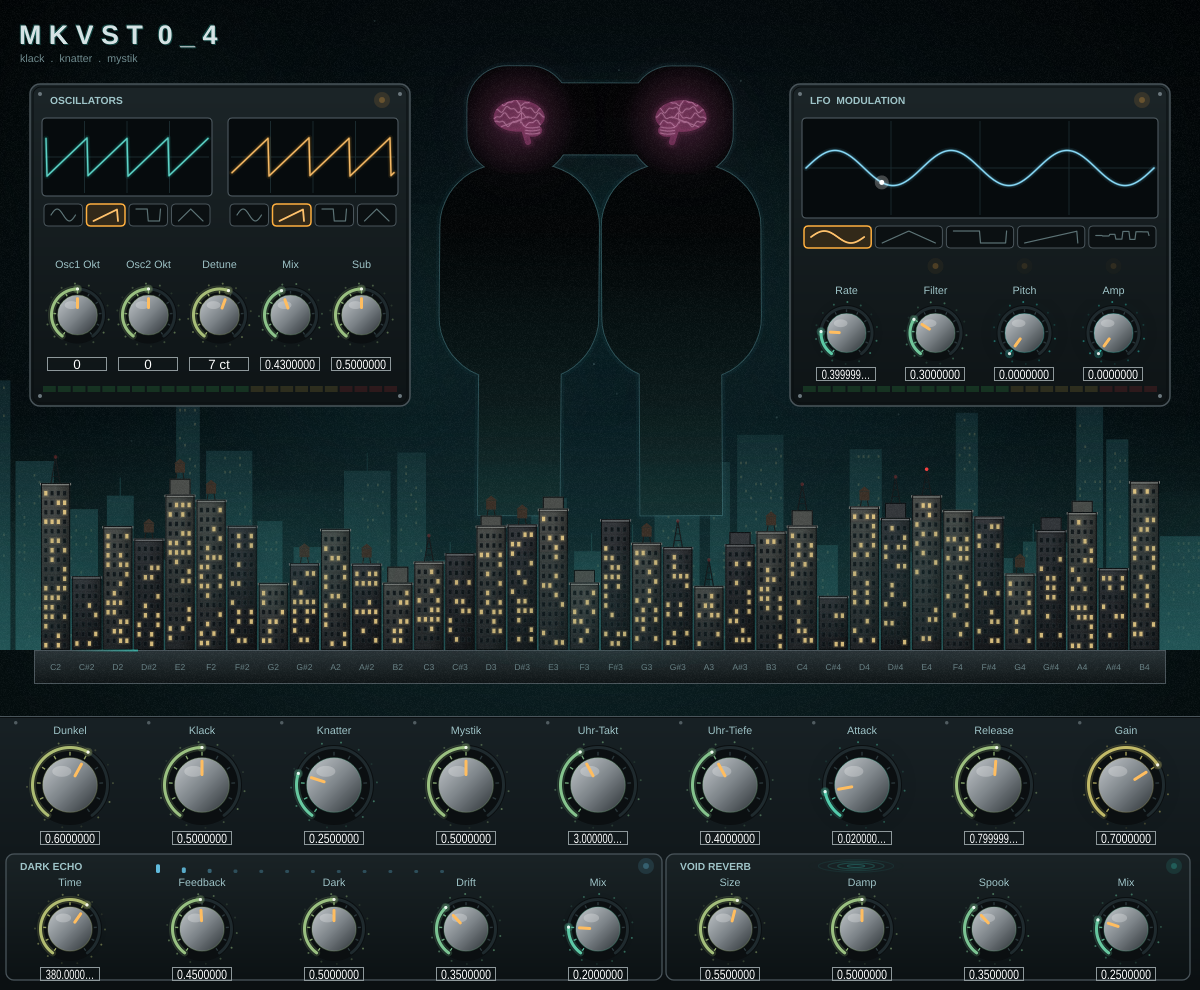
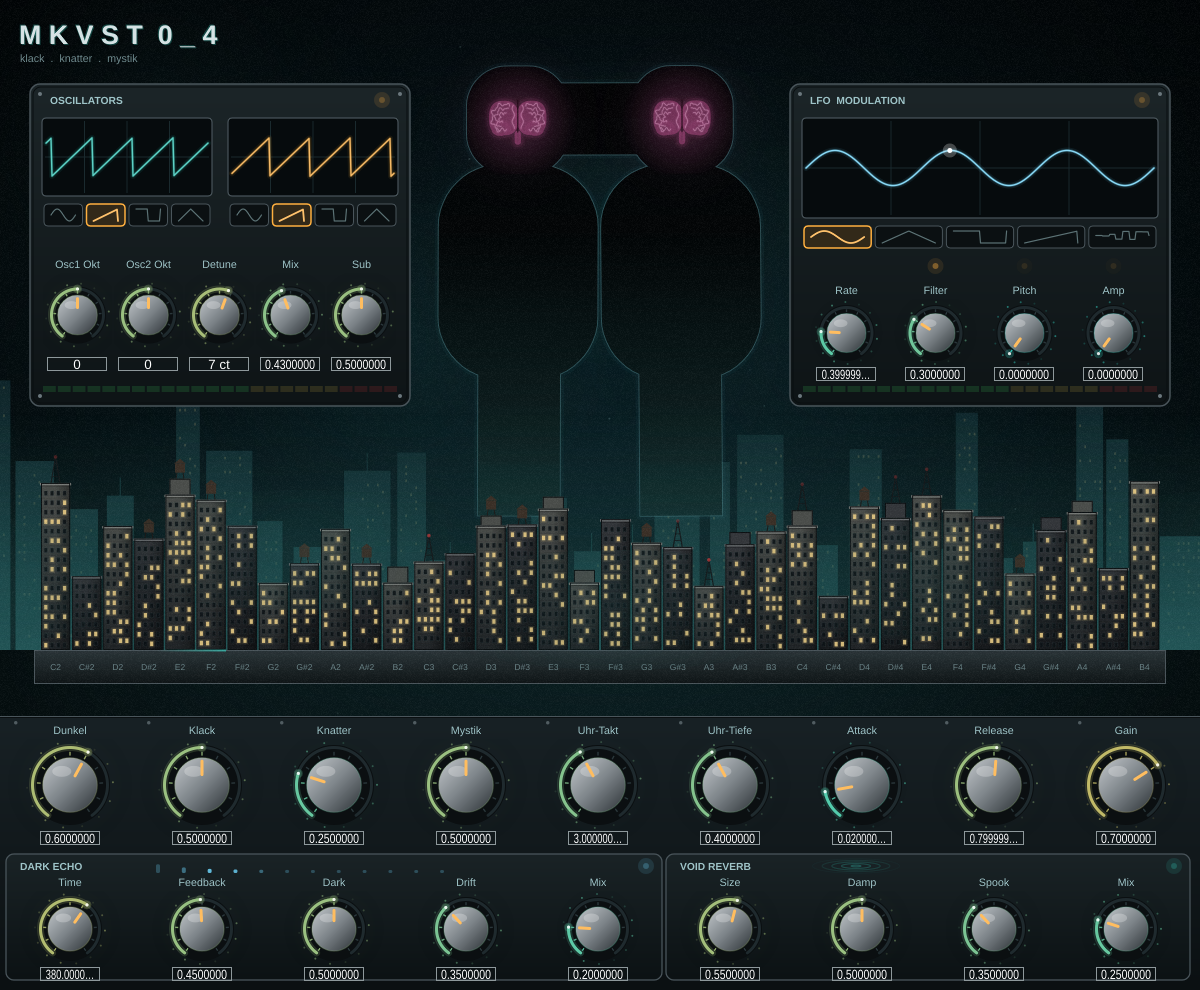
Gehirne in Frontansicht statt im Profil
Zwei Hälften mit Mittelspalt, Schläfenlappen und Hirnstamm, Windungen als wellige Bögen.
Screenshot neu aufgenommen.

Claude-Session: https://claude.ai/code/session_01NFZk9Gjxj1xszL24HG9cdJ

diff --git a/Source/Mkvst04Editor.cpp b/Source/Mkvst04Editor.cpp
@@ -387,48 +387,68 @@ void Mkvst04Editor::buildFigures()
     bodyR.addRoundedRectangle (2.5f, -86.0f, 108.9f, 147.0f, 42.7f);
     bodyR.addRectangle (28.0f, 50.0f, 56.0f, 104.6f);
 
-    // Gehirn im linken Kopf, Stirn nach außen (-x). Großhirn: Ellipse, oben etwas voller als unten,
-    // vorne leicht abgeflacht; Kleinhirn hinten unten, Hirnstamm darunter.
-    //     x(a) = 21 cos a,   y(a) = -2 + (a < pi ? 11 : 14) sin a,   Stirn: x *= 0.92 für cos a < 0
+    // Gehirn im linken Kopf, Frontansicht: zwei Hälften nebeneinander, unten außen die Schläfenlappen,
+    // in der Mitte der Hirnstamm. Jede Hälfte ist eine Superellipse (kantiger als eine Ellipse, damit die
+    // Innenseiten am Mittelspalt flach aneinanderliegen):
+    //     x(a) = ±11 + 11,5 sgn(cos a) |cos a|^(2/n),   y(a) = -2 + 13,5 sgn(sin a) |sin a|^(2/n),   n = 2,6
     const auto c = brainCentreL;
-    juce::Path cerebrum;
-    for (int k = 0; k <= 64; ++k)
+    auto sgnPow = [] (float v) { return std::copysign (std::pow (std::abs (v), 2.0f / 2.6f), v); };
+    for (float side : { -1.0f, 1.0f })
     {
-        const float a = (float) k / 64.0f * twoPi;
-        const float x = 21.0f * std::cos (a) * (std::cos (a) < 0.0f ? 0.92f : 1.0f);
-        const float y = -2.0f + (a < pi ? 11.0f : 14.0f) * std::sin (a);
-        if (k == 0) cerebrum.startNewSubPath (c.x + x, c.y + y);
-        else        cerebrum.lineTo (c.x + x, c.y + y);
-    }
-    cerebrum.closeSubPath();
-    brainShape = cerebrum;
-    brainShape.addEllipse (c.x + 4.0f, c.y + 3.0f, 15.0f, 10.0f);                 // Kleinhirn
-    juce::Path stem;
-    stem.addRoundedRectangle (c.x + 2.0f, c.y + 6.0f, 5.0f, 14.0f, 2.5f);           // Hirnstamm
-    brainShape.addPath (stem, juce::AffineTransform::rotation (-0.3f, c.x + 4.5f, c.y + 6.0f));
-
-    // Windungen: wellige Linien quer durchs Großhirn, dazu Zentralfurche und seitliche Furche
-    //     y_row(x) = y0 + 1.8 sin(0.45 x + 1.7 row) + 1.0 sin(0.95 x + row)
-    for (int row = 0; row < 4; ++row)
-    {
-        const float y0 = -14.0f + (float) row * 5.4f;
-        for (int k = 0; k <= 48; ++k)
+        juce::Path half;
+        for (int k = 0; k < 96; ++k)
         {
-            const float x = -22.0f + (float) k * (44.0f / 48.0f);
-            const float y = y0 + 1.8f * std::sin (0.45f * x + 1.7f * (float) row) + 1.0f * std::sin (0.95f * x + (float) row);
-            if (k == 0) brainFolds.startNewSubPath (c.x + x, c.y + y);
-            else        brainFolds.lineTo (c.x + x, c.y + y);
+            const float a = (float) k / 96.0f * twoPi;
+            const float x = c.x + side * 11.0f + 11.5f * sgnPow (std::cos (a));
+            const float y = c.y - 2.0f + 13.5f * sgnPow (std::sin (a));
+            if (k == 0) half.startNewSubPath (x, y);
+            else        half.lineTo (x, y);
         }
+        half.closeSubPath();
+        brainShape.addPath (half);
+        brainShape.addEllipse (c.x + side * 14.0f - 6.5f, c.y + 2.0f, 13.0f, 10.0f);   // Schläfenlappen
     }
-    brainFolds.startNewSubPath (c.x + 1.0f, c.y - 13.0f);                          // Zentralfurche
-    brainFolds.quadraticTo (c.x + 4.0f, c.y - 5.0f, c.x + 2.0f, c.y + 2.0f);
-    brainFolds.startNewSubPath (c.x - 13.0f, c.y + 5.0f);                          // seitliche Furche
-    brainFolds.quadraticTo (c.x - 2.0f, c.y + 1.0f, c.x + 8.0f, c.y - 3.0f);
-    for (int k = 0; k < 3; ++k)                                                    // Rillen im Kleinhirn
+    brainShape.addRoundedRectangle (c.x - 2.5f, c.y + 8.0f, 5.0f, 11.0f, 2.5f);          // Hirnstamm
+
+    // Mittelspalt zwischen den Hälften (wird dunkel gezeichnet)
+    brainFissure.startNewSubPath (c.x, c.y - 15.5f);
+    brainFissure.lineTo (c.x, c.y + 9.0f);
+
+    // Windungen je Hälfte: drei offene, wellige Bögen von oben innen über außen nach unten,
+    //     r(t) = f + 0,08 sin((9 - 2k) pi t + k) + 0,04 sin((17 - 3k) pi t + 2k),   a(t) = -60° - 190° t
+    // dazu eine wellige Linie am Mittelspalt und die Furche über dem Schläfenlappen.
+    for (float side : { -1.0f, 1.0f })
     {
-        const float yy = c.y + 5.5f + (float) k * 2.4f;
-        brainFolds.startNewSubPath (c.x + 6.0f, yy);
-        brainFolds.quadraticTo (c.x + 11.5f, yy + 1.2f, c.x + 17.0f, yy - 0.4f);
+        auto X = [&] (float xl) { return c.x - side * xl; };          // xl: Koordinate der linken Hälfte
+        for (int k = 0; k < 3; ++k)
+        {
+            const float f = 0.8f - 0.25f * (float) k, kf = (float) k;
+            for (int n = 0; n <= 80; ++n)
+            {
+                const float t = (float) n / 80.0f;
+                const float a = juce::degreesToRadians (-60.0f - 190.0f * t);
+                const float r = f + 0.08f * std::sin (t * (9.0f - 2.0f * kf) * pi + kf)
+                                  + 0.04f * std::sin (t * (17.0f - 3.0f * kf) * pi + 2.0f * kf);
+                const float x = X (-11.0f + 11.5f * r * std::cos (a));
+                const float y = c.y - 2.0f + 13.5f * r * std::sin (a);
+                if (n == 0) brainFolds.startNewSubPath (x, y);
+                else        brainFolds.lineTo (x, y);
+            }
+        }
+        for (int n = 0; n <= 30; ++n)
+        {
+            const float t = (float) n / 30.0f;
+            const float x = c.x + side * (3.5f + 0.9f * std::sin (t * 11.0f));
+            if (n == 0) brainFolds.startNewSubPath (x, c.y - 12.0f + 18.0f * t);
+            else        brainFolds.lineTo (x, c.y - 12.0f + 18.0f * t);
+        }
+        for (int n = 0; n <= 30; ++n)
+        {
+            const float t = (float) n / 30.0f;
+            const float x = c.x + side * (9.0f + 8.0f * t), y = c.y + 7.0f + 1.2f * std::sin (t * 12.0f);
+            if (n == 0) brainFolds.startNewSubPath (x, y);
+            else        brainFolds.lineTo (x, y);
+        }
     }
 }
 
@@ -914,7 +934,7 @@ float Mkvst04Editor::brainGlow (float flash) const
     return juce::jlimit (0.0f, 1.0f, 0.3f + 0.4f * brainPulse + 0.45f * flash);
 }
 
-// Gehirn im Profil (Großhirn mit Windungen, Kleinhirn, Hirnstamm), schaut nach außen.
+// Gehirn in Frontansicht (zwei Hälften mit Windungen, Schläfenlappen, Hirnstamm).
 // Pfade in Figureneinheiten um brainCentreL; der rechte Kopf ist das Spiegelbild (x -> -x).
 // Weicher Schein = radialer Verlauf + breite, blasse Striche um den Umriss (JUCE hat keinen Blur).
 void Mkvst04Editor::drawBrain (juce::Graphics& g, const juce::AffineTransform& tfHead, bool mirrored, float flash)
@@ -947,6 +967,9 @@ void Mkvst04Editor::drawBrain (juce::Graphics& g, const juce::AffineTransform& t
     g.setColour (brainLight.withAlpha (0.15f + 0.45f * glow));
     g.strokePath (brainFolds, juce::PathStrokeType (1.1f, juce::PathStrokeType::curved, juce::PathStrokeType::rounded), tf);
     g.restoreState();
+
+    g.setColour (juce::Colour (0xff1a0612).withAlpha (0.8f));
+    g.strokePath (brainFissure, juce::PathStrokeType (1.4f, juce::PathStrokeType::curved, juce::PathStrokeType::rounded), tf);
 }
 
 //==============================================================================

diff --git a/Source/Mkvst04Editor.h b/Source/Mkvst04Editor.h
@@ -104,7 +104,7 @@ private:
     juce::Path farBuildings, farWindows;                // ferne Stadt (Kulisse)
     juce::Image grain;                                  // Filmkorn
     juce::Path figureMask;                              // aktuelle Umrisse beider Figuren (pro Frame)
-    juce::Path brainShape, brainFolds;                  // Gehirn im linken Kopf (rechts gespiegelt)
+    juce::Path brainShape, brainFolds, brainFissure;    // Gehirn im linken Kopf (rechts gespiegelt)
     const juce::Point<float> brainCentreL { -56.3f, -117.0f };
     juce::Point<float> brainWorldL, brainWorldR;        // Blitz-Ursprünge: die Gehirne
 
